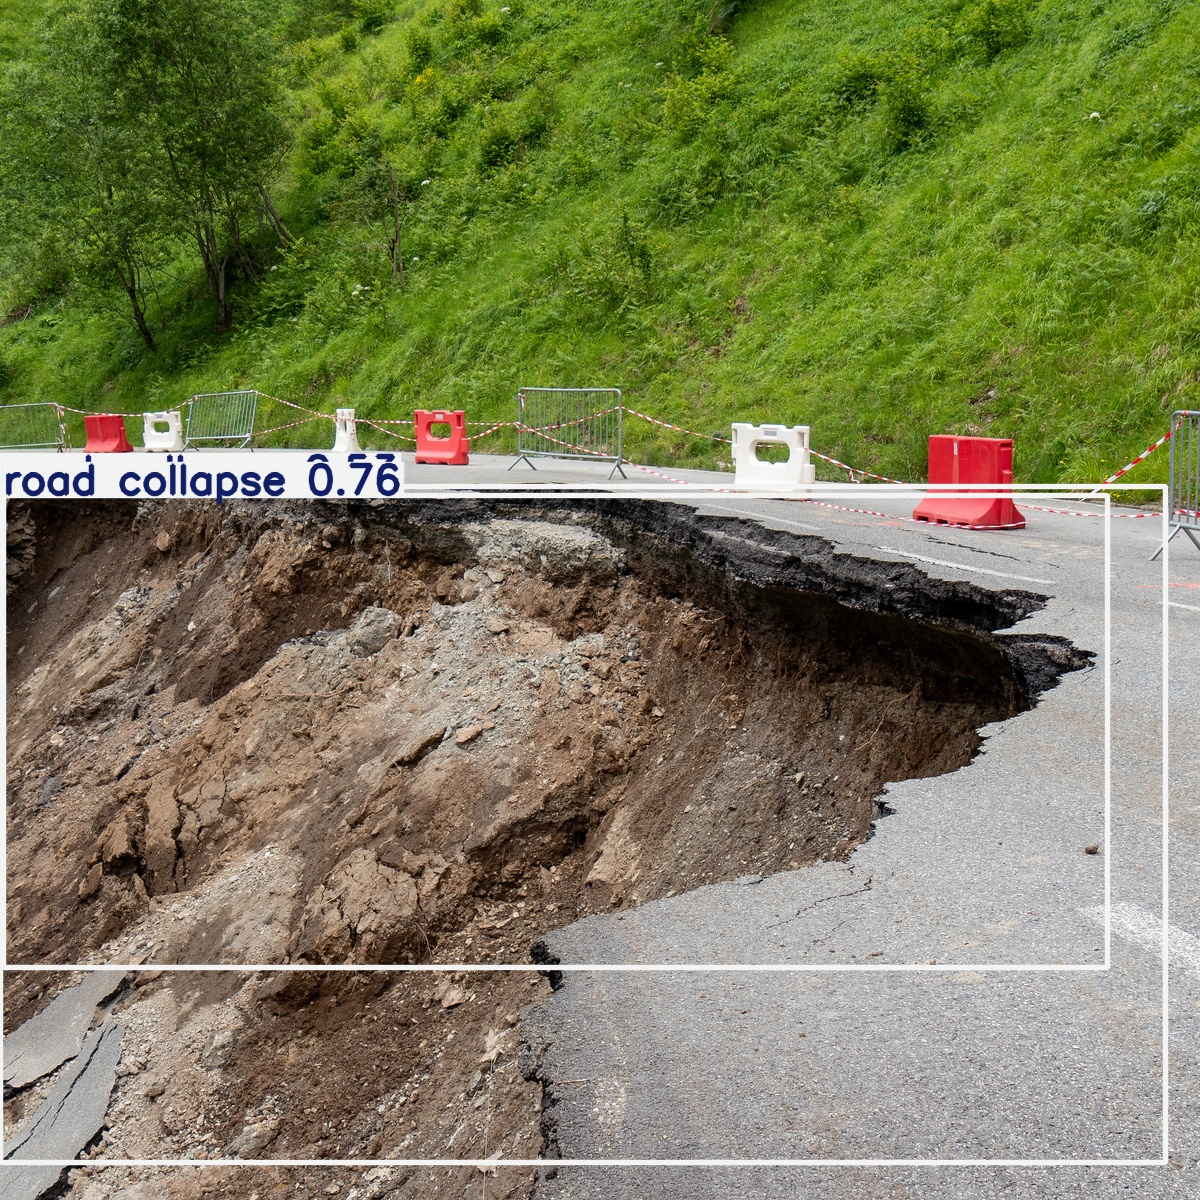
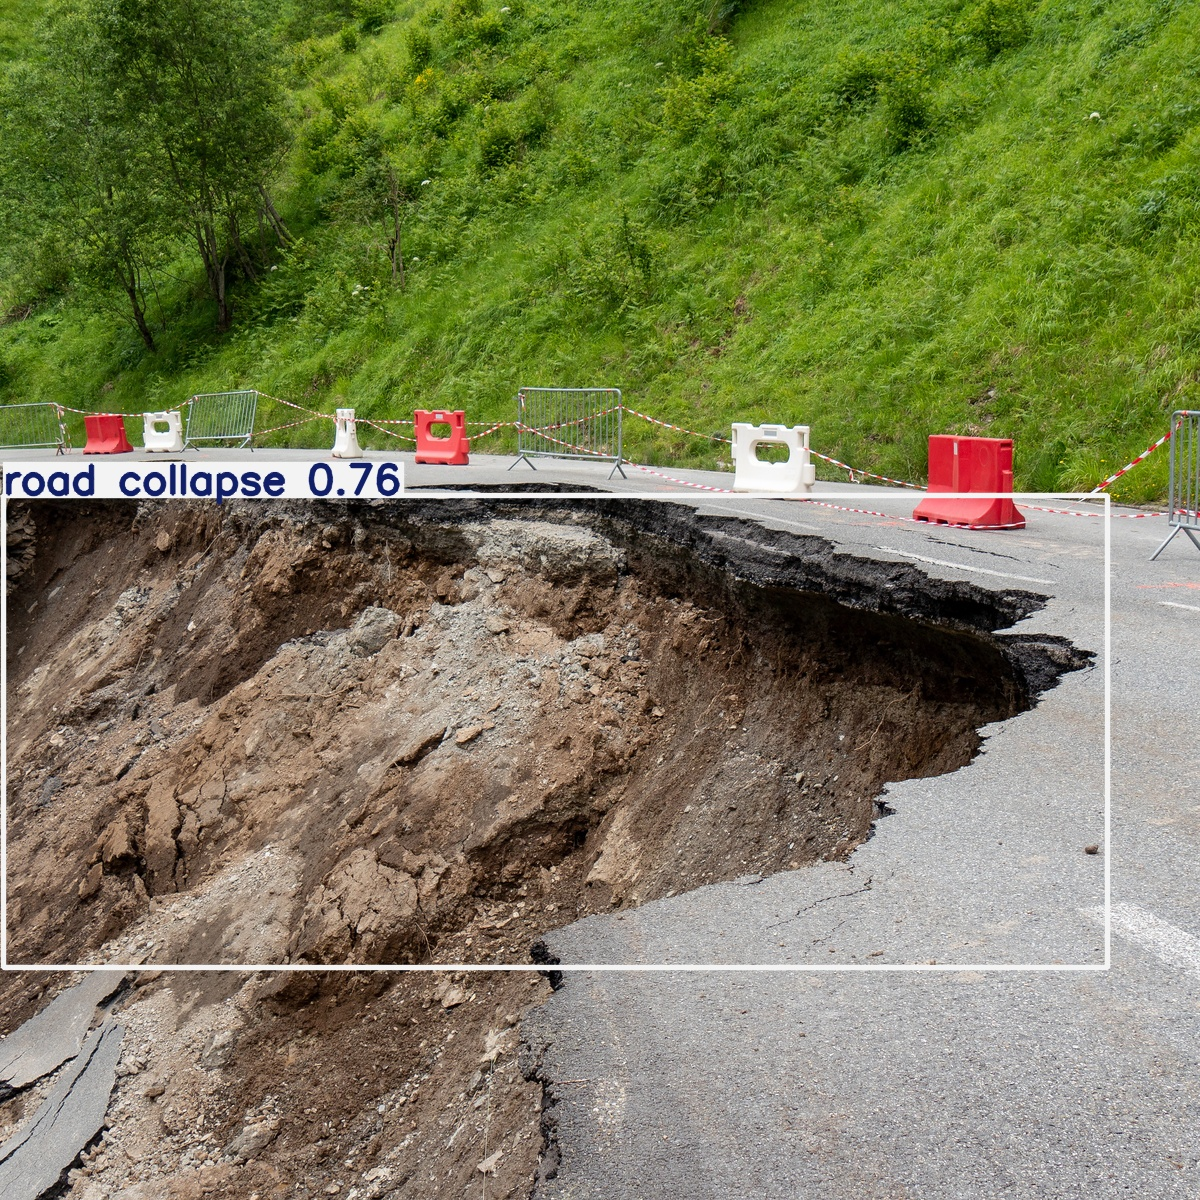
stretch the image to qlabel and add iou and conf setting

diff --git a/my_app.py b/my_app.py
@@ -60,25 +60,27 @@ class MainWindow(QMainWindow, Ui_MainWindow):
             pixmap = QtGui.QPixmap(file_name)  # Load the image
             self.image = self.pixmap_to_pil_image(pixmap)
             self.display_image(pixmap)
+
     def display_image(self,pixmap):
         # Set fixed width and height for the image to fit the label
         label_width = self.label_display.width()  # Get the label's width
         label_height = self.label_display.height()  # Get the label's height
         # Scale the pixmap to fit the label while keeping aspect ratio
-        scaled_pixmap = pixmap.scaled(label_width, label_height, QtCore.Qt.AspectRatioMode.KeepAspectRatio)
+        scaled_pixmap = pixmap.scaled(label_width, label_height, QtCore.Qt.AspectRatioMode.IgnoreAspectRatio)
         self.label_display.setPixmap(scaled_pixmap)  # Set the scaled image on the label
         # self.label_display.setScaledContents(False)  # Disable automatic scaling (since we manually scaled it)
 
     def detect_image(self):
         if self.image:
             # Run the YOLO detection on the loaded image
-            results = self.model(self.image)[0]
+            results = self.model(self.image,conf=0.5, iou=0.3)[0]
 
             results.save(filename = 'result.jpg')  # This will save the results (detected image with bounding boxes)
             # Load and display the detection result
             detected_img_path = 'result.jpg'  # Path of the image with bounding boxes
             pixmap = QtGui.QPixmap(detected_img_path)  # Load the detection result image
             self.display_image(pixmap)
+
     @staticmethod
     def pixmap_to_pil_image(pixmap):
         return ImageQt.fromqpixmap(pixmap)
